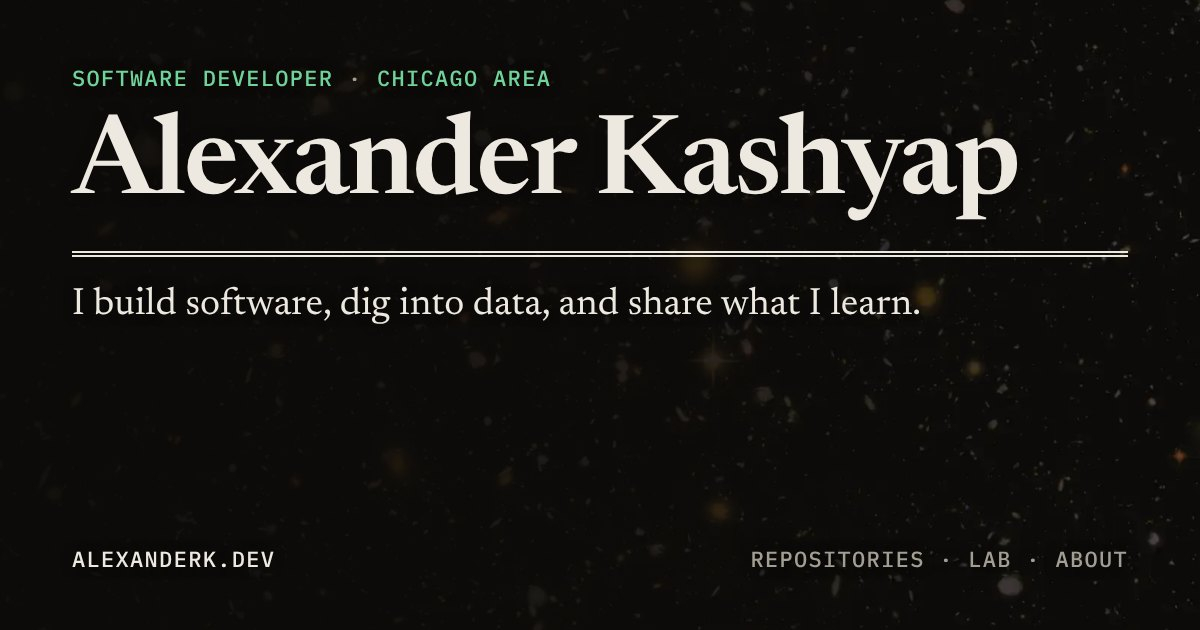
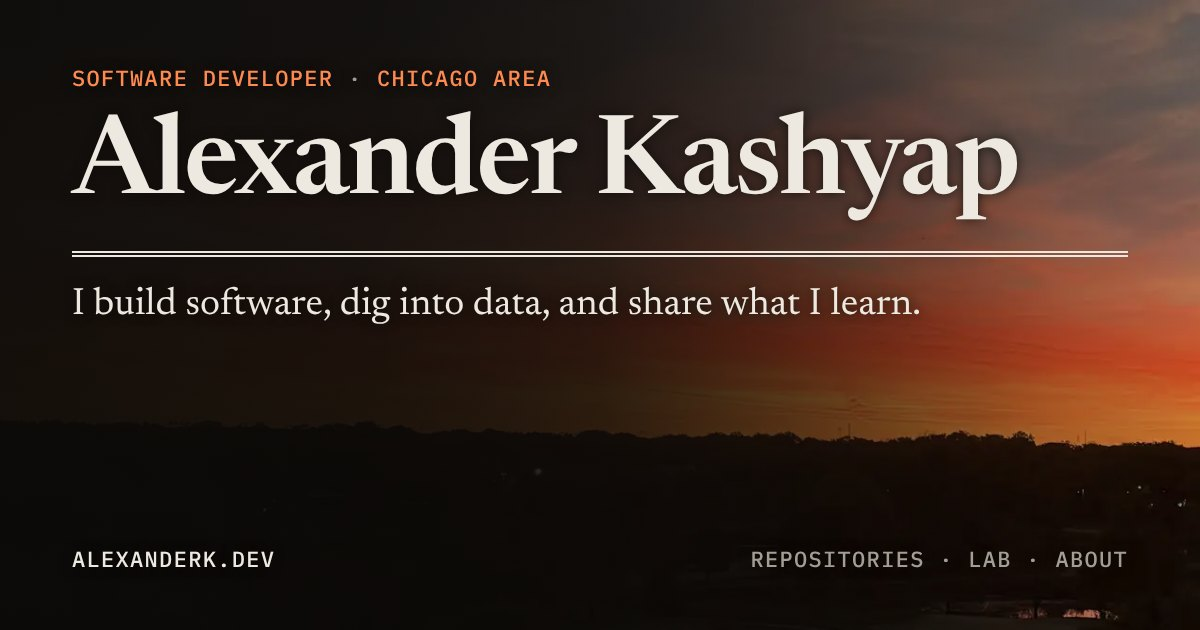
Put my Lisle sunset across the top and take the accent from it
The band across the top of each page is now my sunset over Lisle, Illinois,
cropped to the sky and treeline (2.4:1) and darkened most on the left, where
the text sits; phones add a dark veil since they show its brighter middle.
The accent color moves from green ("Forest") to an orange from the sunset
("Ember", #FF8A50, 7.9:1 on the panels), with the favicon to match.

Drops the Hubble files and credit, and regenerates the link previews and the
picture of this site.

Claude-Session: https://claude.ai/code/session_01EyWja9GQ2vc1y2HRMotNQb

diff --git a/src/styles/site.css b/src/styles/site.css
@@ -1,8 +1,8 @@
 /* ==========================================================================
    alexanderk.dev — styles
    An editorial look: Newsreader for headlines, Libre Franklin for text and
-   IBM Plex Mono for labels and dates. Dark only, with one green accent
-   ("Forest"), and a dimmed Hubble photo across the top of every page.
+   IBM Plex Mono for labels and dates. Dark only, with one orange accent
+   ("Ember", from the sunset), and a dimmed sunset photo across the top of every page.
 
    1. Fonts         self-hosted, plus size-matched fallbacks (no layout jump)
    2. Tokens        colors, type, spacing; older names kept as aliases
@@ -64,7 +64,7 @@
   --muted: #A39E94;           /* secondary text */
   --rule: #3A3732;            /* hairlines */
   --frame: #4A463F;           /* image frames, dotted rules */
-  --accent: #6FD39A;          /* "Forest": link underlines, kickers, focus */
+  --accent: #FF8A50;          /* "Ember", from the sunset: link underlines, kickers, focus */
 
   --serif: "Newsreader", "Newsreader fallback", Georgia, serif;
   --sans: "Libre Franklin", "Libre Franklin fallback", Arial, sans-serif;
@@ -183,12 +183,15 @@ main:focus { outline: none; }   /* the skip link moves focus here; no ring neede
 
 
 /* ---------- 4. Sky ---------- */
-/* Hubble's Ultra Deep Field across the top of every page, behind the header
+/* A sunset over Lisle, Illinois (my photo) across the top of every page, behind the header
    and the page's opening, fading into the dark page below. It scrolls away
    with the page. It's dimmed ahead of time (in the image itself). */
-.sky-bg { position: absolute; top: 0; left: 0; z-index: -1; width: 100%; height: 440px; overflow: hidden; pointer-events: none; -webkit-mask-image: linear-gradient(to bottom, #000 45%, transparent); mask-image: linear-gradient(to bottom, #000 45%, transparent); }
-.sky-bg img { display: block; width: 100%; height: 100%; max-width: none; object-fit: cover; object-position: 50% 40%; }
-@media (min-width: 720px) { .sky-bg { height: 600px; } }
+.sky-bg { position: absolute; top: 0; left: 0; z-index: -1; width: 100%; height: 440px; overflow: hidden; pointer-events: none; -webkit-mask-image: linear-gradient(to bottom, #000 62%, transparent); mask-image: linear-gradient(to bottom, #000 62%, transparent); }
+.sky-bg img { display: block; width: 100%; height: 100%; max-width: none; object-fit: cover; object-position: 50% 100%; }
+/* The photo is darkest on the left, where the text sits. Phones show its
+   brighter middle behind the text, so it gets a further dark veil there. */
+.sky-bg::after { content: ""; position: absolute; inset: 0; background: rgb(13 11 9 / 0.5); }
+@media (min-width: 720px) { .sky-bg { height: 600px; } .sky-bg::after { content: none; } }
 
 /* A soft dark edge around text, so a bright star behind a line never washes
    it out. Solid panels (charts, maps, code, tables) don't need it. */

diff --git a/README.md b/README.md
@@ -50,7 +50,7 @@ The Worker needs these, set with `wrangler secret put`:
 ## Credits
 
 - Fonts: Newsreader, Libre Franklin and IBM Plex Mono, all open source, served from `public/fonts/`.
-- Background: the [Hubble Ultra Deep Field](https://esahubble.org/images/heic0406a/) by NASA, ESA, S. Beckwith (STScI) and the HUDF Team ([CC BY 4.0](https://creativecommons.org/licenses/by/4.0/)), dimmed.
+- Top photo: a sunset over Lisle, Illinois, my own photo, dimmed.
 - Technology logos: [Simple Icons](https://simpleicons.org) (CC0).
 - The photos are my own.
 - I used AI to help write the text on this site.
